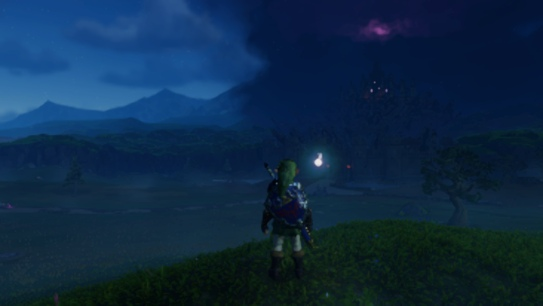
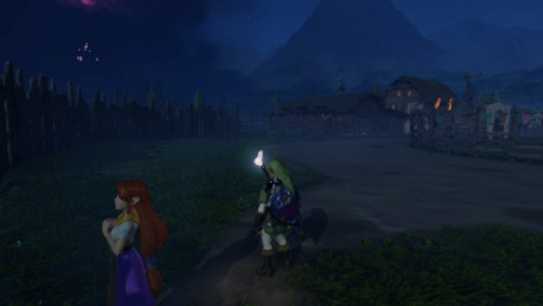
fixed a duplicate save

diff --git a/saves/R10200_MalonBug/README.md b/saves/R10200_MalonBug/README.md
@@ -1,7 +1,7 @@
-##  Hyrule Field
+##  Ingo Ranch
 (HyruleField/HyruleField_Adult)
 
-Manually saved at 2026/11/22 at 0:28:18  
+Manually saved at 2026/11/22 at 0:53:15  
 Progress: [🟢🟥💙|💡]   
 ❤ 24/24  
 ❇ 240/240  
@@ -41,9 +41,9 @@ Songs: [💤🌲🕔|]
   0xe8bd6759 DoubleDefense =  0
   0xdc941483 GSCount =  6
   0xdfd840d3 FileSaved_Month =  11
-  0x5ee50bed FileSaved_Second =  18
+  0x5ee50bed FileSaved_Second =  15
   0x19f26b6a MagicCurr =  240
-  0x27853bf7 FileSaved_Minute =  28
+  0x27853bf7 FileSaved_Minute =  53
   0xbd46f485 FileSaved_Day =  22
   0x943f8ec3 MagicMax =  240
   0x23f3d75e FileSaved_Hour =  0
@@ -51,7 +51,7 @@ Songs: [💤🌲🕔|]
   0x74bd05d0 HeartsMax =  24
   0x1e55ecc5 HeartsCurr =  24
   0x9811a3f7 FileSaved_Year =  2026
-  0xaccbda17  =  1103735120
+  0xaccbda17  =  3238490239
   0x8b26618e  =  672
   0xf74e0e8e  =  684
   0xcccc6cd  =  748
